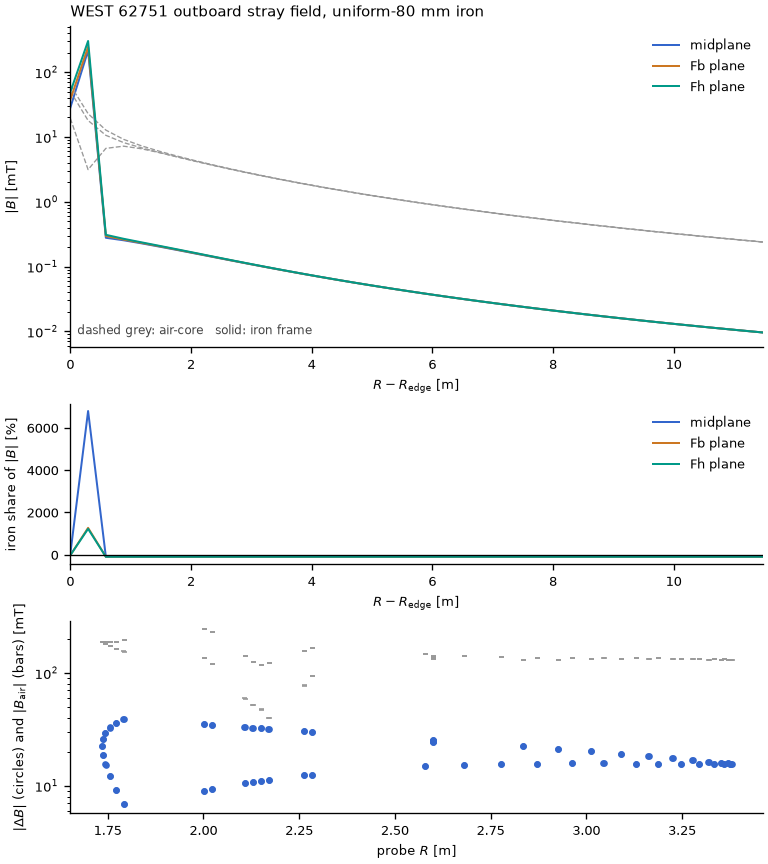
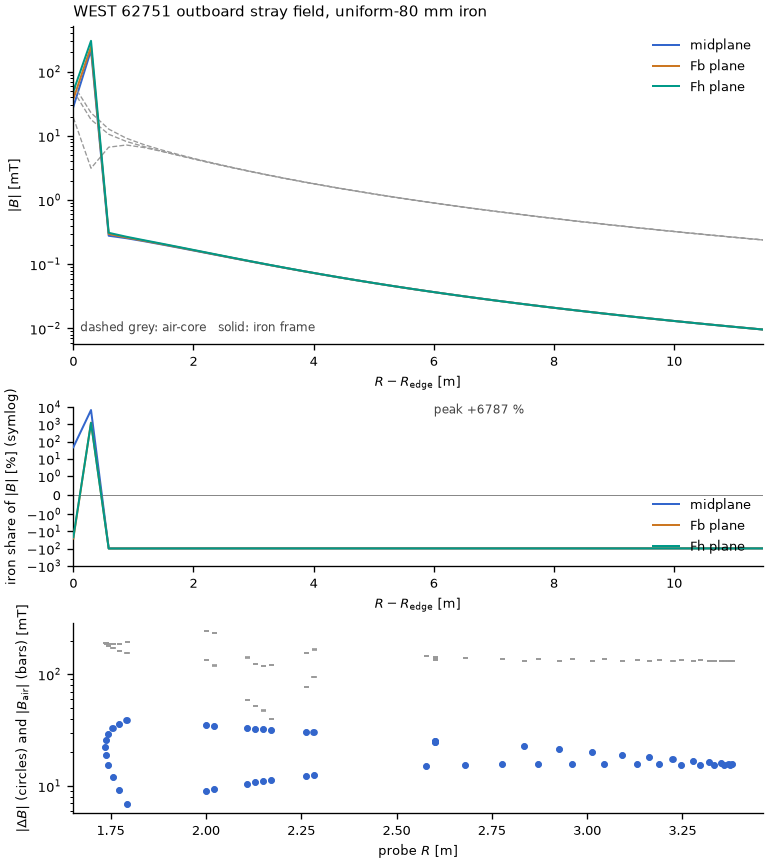
fix(evidence): keep the base clone off /work and show the iron share it measured
run_arms.sh built its base clone at a path under the evidence root and deleted it with rm -rf, which the repository forbids under /work; the clone is now a mktemp directory on node-local disk removed by the job EXIT trap, and prepare_base no longer removes anything. The figure middle panel drew the iron share on a linear axis where one +6787 % quadrature point flattened the -96 % plateau into a 4 px band two pixels under a black zero rule, so the picture read as about zero against a measured -96 %; the panel is now symmetric-log with explicit limits, the rule grey and under the curves, and the peak annotated. Ink check: the plateau is a continuous line 53 px below the zero rule.

diff --git a/docs/evidence/fragments/iron-core-magnetisation/icm-iron-field-source.html b/docs/evidence/fragments/iron-core-magnetisation/icm-iron-field-source.html
@@ -222,8 +222,13 @@ and the plan's <code>done_when</code> names
 <code>/nova/figures/west-stray-field/</code>; both resolve to the same bytes.</p>
 <p>The upper panel is the total field with the iron (solid, one colour per plane)
 over the air-core field (dashed grey); the middle panel is the iron's share in
-per cent; the lower panel is the iron's contribution at every in-vessel poloidal
-probe against the air-core field there.</p>
+per cent on a symmetric-log axis, because one quadrature point beside the edge
+carries a share of several thousand per cent that on a linear axis flattened the
+-96&nbsp;% plateau into a line indistinguishable from zero and drew it under the
+zero rule - the reader then read the opposite sign. The plateau now sits about
+fifty pixels below zero, the rule is grey and drawn beneath the curves, and the
+spike is annotated with its value. The lower panel is the iron's contribution at
+every in-vessel poloidal probe against the air-core field there.</p>
 <table><thead><tr><th>Plane</th><th>|B| air, +1 m [mT]</th><th>|B| with iron, +1 m [mT]</th><th>iron share, +1 m [%]</th><th>share, +4 m [%]</th><th>share, +11 m [%]</th></tr></thead><tbody>
 <tr><td>midplane</td><th>7.215</th><th>0.255</th><td>-96.5</td><td>-95.9</td><td>-96.0</td></tr>
 <tr><td>Fb plane</td><th>8.191</th><th>0.262</th><td>-96.8</td><td>-95.9</td><td>-96.0</td></tr>

diff --git a/scripts/iron_field_source/figure.py b/scripts/iron_field_source/figure.py
@@ -77,6 +77,12 @@ def draw(axes, data):
     middle = axes[1]
     trace_axes(middle)
     share = (iron - air) / air * 100
+    # One quadrature point beside the edge carries a few-thousand-percent share,
+    # and on a linear axis it flattens the -96 % share held further out into a
+    # line indistinguishable from zero - the reader then reads the opposite sign.
+    # A symmetric log axis keeps both the outlier and the plateau legible, and the
+    # zero rule is drawn under the curves so it cannot hide them.
+    middle.axhline(0.0, color="#888888", linewidth=0.6, zorder=0)
     for index, name in enumerate(names):
         middle.plot(
             distance,
@@ -84,12 +90,23 @@ def draw(axes, data):
             color=COLORS[index],
             linewidth=style.trace_linewidth,
             label=name,
+            zorder=3,
         )
-    middle.axhline(0.0, color="#000000", linewidth=0.8)
+    middle.set_yscale("symlog", linthresh=1.0)
+    peak = float(np.max(share))
+    middle.annotate(
+        f"peak {peak:+.0f} %",
+        xy=(float(distance[int(np.argmax(share))]), peak),
+        xytext=(6.0, peak),
+        fontsize=style.label_fontsize - 1,
+        color="#444444",
+        va="center",
+    )
+    middle.set_ylim(-1.0e3, 1.0e4)
     middle.set_xlim(0, float(distance[-1]))
-    middle.set_ylabel("iron share of $|B|$ [%]", fontsize=style.label_fontsize)
+    middle.set_ylabel("iron share of $|B|$ [%] (symlog)", fontsize=style.label_fontsize)
     middle.set_xlabel(r"$R - R_{\mathrm{edge}}$ [m]", fontsize=style.label_fontsize)
-    middle.legend(fontsize=style.label_fontsize, frameon=False, loc="upper right")
+    middle.legend(fontsize=style.label_fontsize, frameon=False, loc="lower right")
 
     lower = axes[2]
     trace_axes(lower)
